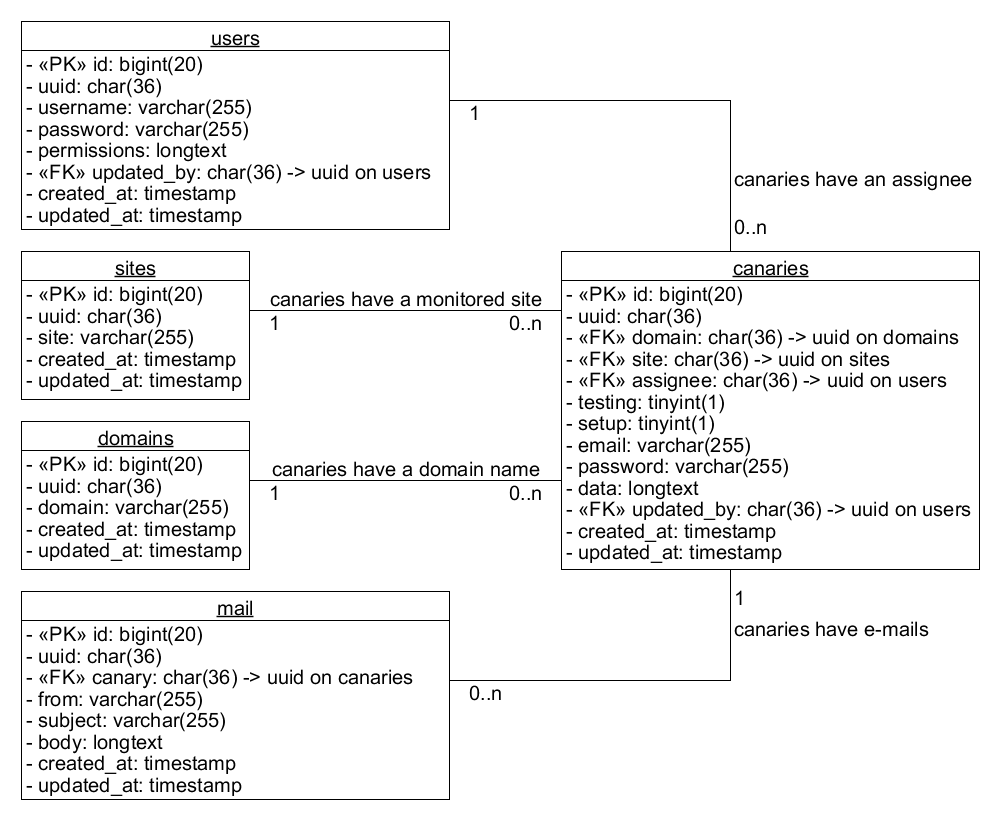
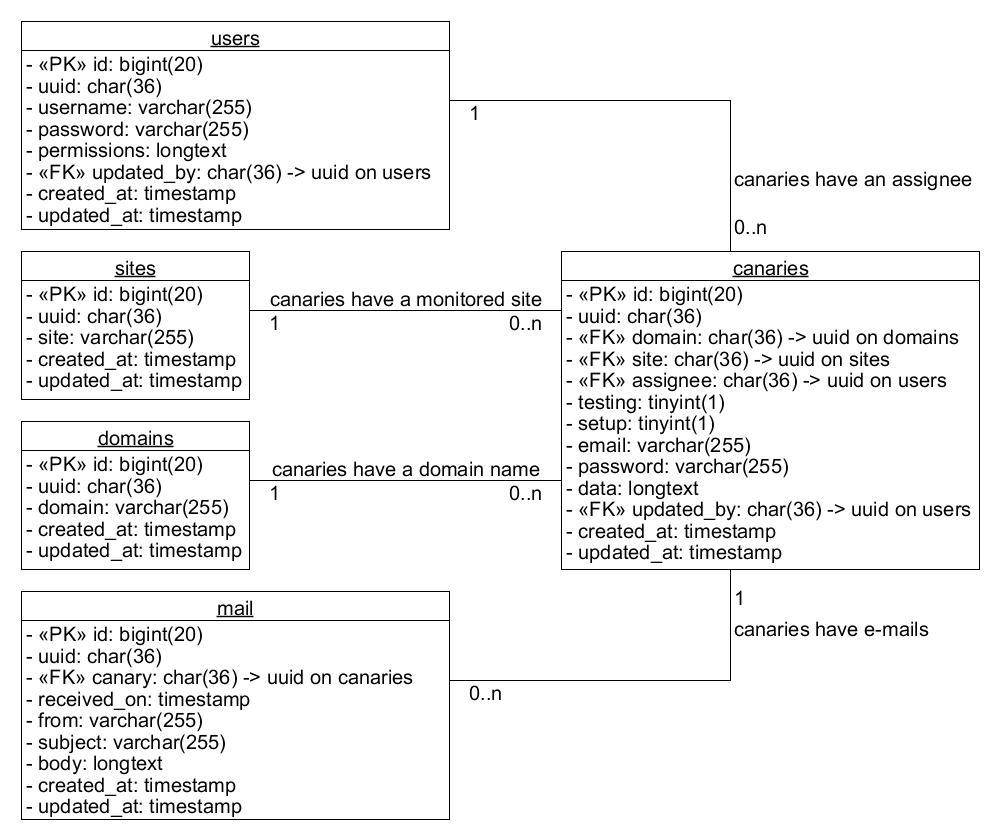
Updated data model

diff --git a/data-model.md b/data-model.md
@@ -4,15 +4,15 @@
 
 ## TOC
 
-- [Table `users`](#toc-users)
-- [Table `domains`](#toc-domains)
-- [Table `sites`](#toc-sites)
-- [Table `canaries`](#toc-canaries)
-- [Table `mail`](#toc-mail)
+-   [Table `users`](#toc-users)
+-   [Table `domains`](#toc-domains)
+-   [Table `sites`](#toc-sites)
+-   [Table `canaries`](#toc-canaries)
+-   [Table `mail`](#toc-mail)
 
 ## <a name="toc-users"></a>Table `users` [[SQL migration]](/database/migrations/2019_10_15_162034_create_users_table.php)
 
-> *<< PK >>* `id` : **bigint(20)** : PRIMARY KEY, NOT NULL
+> _<< PK >>_ `id` : **bigint(20)** : PRIMARY KEY, NOT NULL
 >
 > `uuid` : **char(36)** : UNIQUE, NOT NULL, INDEX
 >
@@ -22,7 +22,7 @@
 >
 > `permissions` : **longtext**
 >
-> *<< FK >>* `updated_by` : **char(36)**: NULL, REFERENCES users(uuid)
+> _<< FK >>_ `updated_by` : **char(36)**: NULL, REFERENCES users(uuid)
 >
 > `created_at` : **timestamp**
 >
@@ -30,10 +30,9 @@
 
 Table `users` holds credentials for users that may access the API interface.
 
-
 ## <a name="toc-domains"></a>Table `domains` [[SQL migration]](/database/migrations/2020_03_01_110921_create_domains_table.php)
 
-> *<< PK >>* `id` : **bigint(20)** : PRIMARY KEY, NOT NULL
+> _<< PK >>_ `id` : **bigint(20)** : PRIMARY KEY, NOT NULL
 >
 > `uuid` : **char(36)** : UNIQUE, NOT NULL, INDEX
 >
@@ -45,10 +44,9 @@ Table `users` holds credentials for users that may access the API interface.
 
 Table `domains` holds domain names that are available for canary account creation.
 
-
 ## <a name="toc-sites"></a>Table `sites` [[SQL migration]](/database/migrations/2020_03_01_100932_create_sites_table.php)
 
-> *<< PK >>* `id` : **bigint(20)** : PRIMARY KEY, NOT NULL
+> _<< PK >>_ `id` : **bigint(20)** : PRIMARY KEY, NOT NULL
 >
 > `uuid` : **char(36)** : UNIQUE, NOT NULL, INDEX
 >
@@ -60,18 +58,17 @@ Table `domains` holds domain names that are available for canary account creatio
 
 Table `sites` holds monitored site URLs that are to be monitored.
 
-
 ## <a name="toc-canaries"></a>Table `canaries` [[SQL migration]](/database/migrations/2020_03_01_130803_create_canaries_table.php)
 
-> *<< PK >>* `id` : **bigint(20)** : PRIMARY KEY, NOT NULL
+> _<< PK >>_ `id` : **bigint(20)** : PRIMARY KEY, NOT NULL
 >
 > `uuid` : **char(36)** : UNIQUE, NOT NULL, INDEX
 >
-> *<< FK >>* `domain` : **char(36)**: NOT NULL, INDEX, REFERENCES domains(uuid)
-> 
-> *<< FK >>* `site` : **char(36)**: NOT NULL, INDEX, REFERENCES sites(uuid)
-> 
-> *<< FK >>* `assignee` : **char(36)**: NULL, INDEX, REFERENCES users(uuid)
+> _<< FK >>_ `domain` : **char(36)**: NOT NULL, INDEX, REFERENCES domains(uuid)
+>
+> _<< FK >>_ `site` : **char(36)**: NOT NULL, INDEX, REFERENCES sites(uuid)
+>
+> _<< FK >>_ `assignee` : **char(36)**: NULL, INDEX, REFERENCES users(uuid)
 >
 > `testing` : **tinyint(1)**
 >
@@ -83,7 +80,7 @@ Table `sites` holds monitored site URLs that are to be monitored.
 >
 > `data` : **longtext**
 >
-> *<< FK >>* `updated_by` : **char(36)**: NULL, REFERENCES users(uuid)
+> _<< FK >>_ `updated_by` : **char(36)**: NULL, REFERENCES users(uuid)
 >
 > `created_at` : **timestamp**
 >
@@ -91,14 +88,15 @@ Table `sites` holds monitored site URLs that are to be monitored.
 
 Table `canaries` holds all generated canary accounts and their credentials and additional data.
 
-
 ## <a name="toc-mail"></a>Table `mail` [[SQL migration]]()
 
-> *<< PK >>* `id` : **bigint(20)** : PRIMARY KEY, NOT NULL
+> _<< PK >>_ `id` : **bigint(20)** : PRIMARY KEY, NOT NULL
 >
 > `uuid` : **char(36)** : UNIQUE, NOT NULL, INDEX
-> 
-> *<< FK >>* `canary` : **char(36)**: NOT NULL, INDEX, REFERENCES canaries(uuid)
+>
+> _<< FK >>_ `canary` : **char(36)**: NOT NULL, INDEX, REFERENCES canaries(uuid)
+>
+> `received_on` : **timestamp**
 >
 > `from` : **varchar(255)**
 >
@@ -110,4 +108,4 @@ Table `canaries` holds all generated canary accounts and their credentials and a
 >
 > `updated_at` : **timestamp**
 
-Table `users` holds credentials for users that may access the API interface.
+Table `mail` holds copies of received e-mails by the honeypot server.
